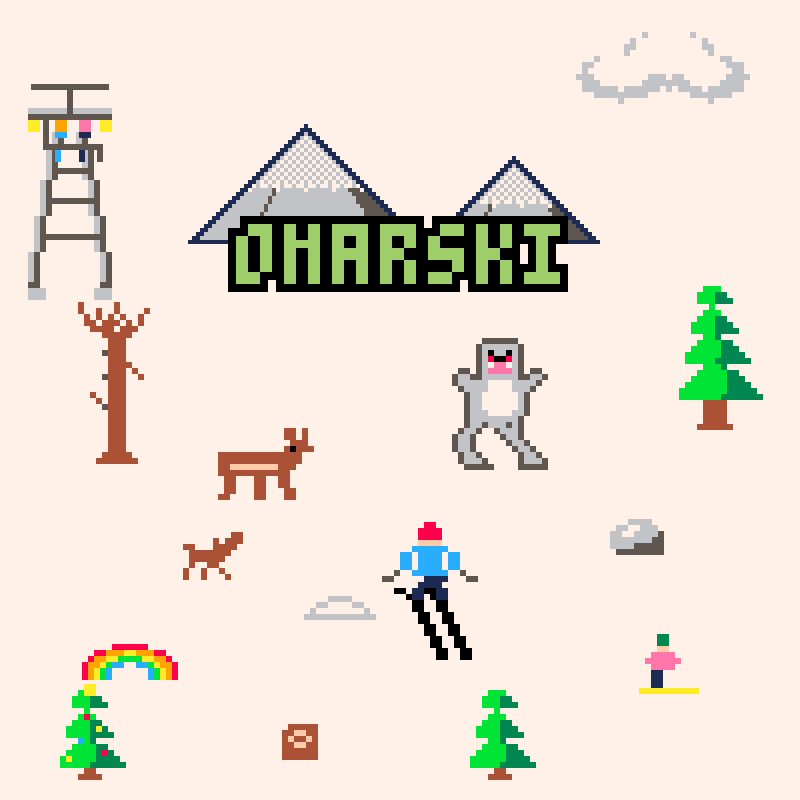
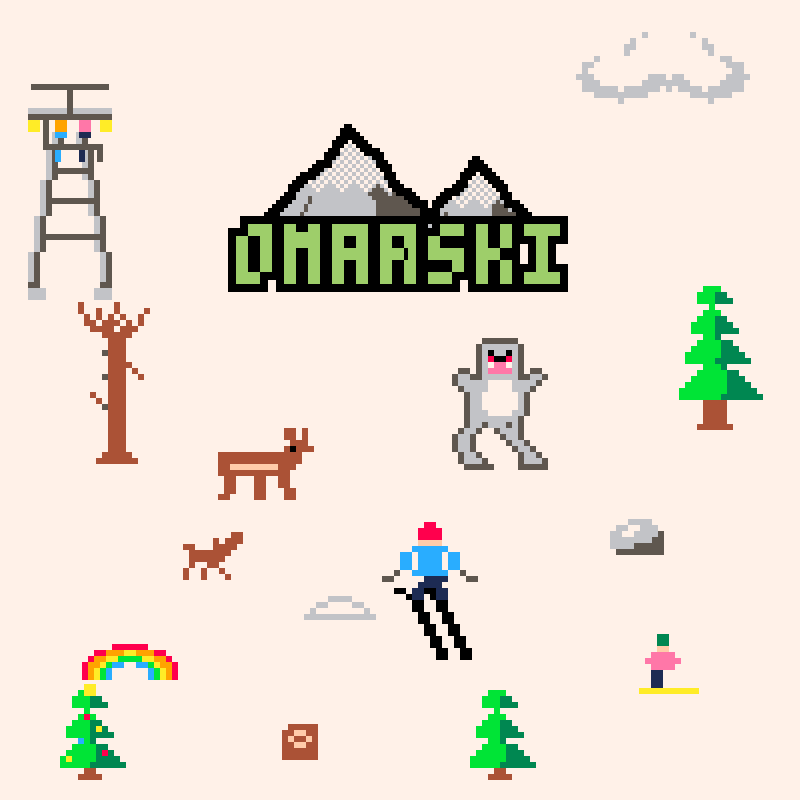
Omarski 4.5.2: craggy bold-outline mountains, cleaner M and R
- mountain() rebuilt: flanks change pitch on the way down and bench out
  into shoulders (no more plain triangles), the snow cap hem is a hard
  6px-period chevron zigzag, and the silhouette wears a bold 2px black
  outline to match the wordmark. Peaks moved from apexes 36/88 to 46/78
  so they read as one massif.
- The M's top notch is half as deep, leaving more of the middle vertex.
- The R's right side is thickened where the bowl meets the leg (2px
  bridge with a 1px joint inset so it still reads R, not A).
- The logo sits 6px lower on the title screen.

Changed region(s): [[0.2188, 0.1562, 0.75, 0.3125], [0.5, 0.3125, 0.5312, 0.3438]]

diff --git a/game/Game.qml b/game/Game.qml
@@ -355,7 +355,7 @@ FocusScope {
     var logoUrl = root.spriteUrl(Sprites.LOGO)
     if (canvas.isImageLoaded(logoUrl)) {
       ctx.drawImage(logoUrl,
-                    Math.round(root.vw / 2 - Sprites.width(Sprites.LOGO) / 2), 2)
+                    Math.round(root.vw / 2 - Sprites.width(Sprites.LOGO) / 2), 8)
     }
   }
 

diff --git a/tools/make-sprites.py b/tools/make-sprites.py
@@ -1373,33 +1373,54 @@ def _boarder_crash_d():
 
 
 def mountain(dst, apex_x, apex_y, height, cap=6):
-    """A snow-capped peak: white cap with a jagged snowline, grey faces with
-    the right flank in shadow, all held together by a dark outline so it
-    still reads against the snow."""
+    """A craggy peak, not a plain triangle: the flanks change pitch on the
+    way down and bench out into shoulders, the snow cap covers the top with
+    a hard chevron-zigzag hem, and the whole thing wears a bold 2px black
+    outline to match the wordmark."""
+    W, H = len(dst[0]), len(dst)
+    tmp = canvas(W, H)
+    lx = rx = 0.0
     for j in range(height):
-        for i in range(-j, j + 1):
-            x, y = apex_x + i, apex_y + j
-            if not (0 <= x < len(dst[0]) and 0 <= y < len(dst)):
+        t = j / float(height)
+        # Pitch varies down each face, and each side benches out once.
+        ls = 0.65 if t < 0.3 else 1.35 if t < 0.6 else 1.0
+        rs = 1.15 if t < 0.25 else 0.6 if t < 0.5 else 1.35
+        if int(height * 0.50) <= j <= int(height * 0.50) + 1:
+            ls = 0.15
+        if int(height * 0.68) <= j <= int(height * 0.68) + 1:
+            rs = 0.2
+        lx += ls
+        rx += rs
+        y = apex_y + j
+        if not (0 <= y < H):
+            continue
+        for x in range(apex_x - int(lx), apex_x + int(rx) + 1):
+            if not (0 <= x < W):
                 continue
-            if abs(i) >= j - 1 or j >= height - 1:
-                c = "n"                               # dark silhouette edge
-            elif j < cap:
-                # Snow, dithered with grey so it still shows on white.
+            hem = cap + (0, 1, 2, 3, 2, 1)[x % 6]
+            if j < hem:
+                # Snow, dithered with grey so it shows on the white field.
                 c = "w" if (x + y) % 2 else "s"
-            elif j == cap:
-                c = "w" if (x + j) % 3 else "s"       # ragged snow edge
-            elif j == cap + 1 and (x * 5 + j) % 7 == 0:
-                c = "w"                               # stray snow below it
             else:
-                c = "d" if i > (j * 2) // 3 else "s"  # sunlit / shadowed
-            dst[y][x] = c
+                c = "d" if (x - apex_x) > int(rx) * 0.35 else "s"
+            tmp[y][x] = c
     # A ridge crease running down the sunlit face.
-    for j in range(cap + 1, height - 1):
+    for j in range(cap + 3, height - 2):
         x = apex_x - j // 2
         y = apex_y + j
-        if 0 <= x < len(dst[0]) and 0 <= y < len(dst) and dst[y][x] == "s":
-            dst[y][x] = "d"
-    return dst
+        if 0 <= x < W and 0 <= y < H and tmp[y][x] == "s":
+            tmp[y][x] = "d"
+    # The bold outline: anything within two pixels of the edge goes black.
+    for y in range(H):
+        for x in range(W):
+            if tmp[y][x] == ".":
+                continue
+            for dy in range(-2, 3):
+                for dx in range(-2, 3):
+                    ny, nx = y + dy, x + dx
+                    if not (0 <= ny < H and 0 <= nx < W) or tmp[ny][nx] == ".":
+                        tmp[y][x] = "k"
+    return blit(dst, tmp, 0, 0)
 
 
 @sprite(53)
@@ -1407,8 +1428,8 @@ def _logo():
     # Mountains behind a fat Omarchy-green wordmark with a uniform 2px
     # black outline. The snow caps cover the top half of each peak.
     dst = canvas(120, 44)
-    mountain(dst, 36, 0, 30, cap=15)
-    mountain(dst, 88, 8, 22, cap=11)
+    mountain(dst, 46, 0, 30, cap=15)
+    mountain(dst, 78, 8, 22, cap=11)
     word = "OMARSKI"
     wx = (120 - text_width(word, 3)) // 2
     wy = 25
@@ -1417,10 +1438,14 @@ def _logo():
             if ox or oy:
                 draw_text(dst, wx + ox, wy + oy, word, "k", 3)
     draw_text(dst, wx, wy, word, "G", 3)
-    # A notch down from the top edge of the big M, leaving its middle
-    # vertex bridging the towers just below — so it reads as an M.
+    # A shallow notch down from the top edge of the big M, leaving its
+    # middle vertex bridging the towers just below — so it reads as an M.
     mx = wx + 4 * 3
-    fill_rect(dst, mx + 3, wy, mx + 6, wy + 4, "k")
+    fill_rect(dst, mx + 3, wy, mx + 6, wy + 2, "k")
+    # Thicken the R where its bowl meets the leg, so the right side holds
+    # the same weight as every other stroke.
+    rx = wx + 3 * 4 * 3
+    fill_rect(dst, rx + 7, wy + 6, rx + 9, wy + 9, "G")
     return dst
 
 
